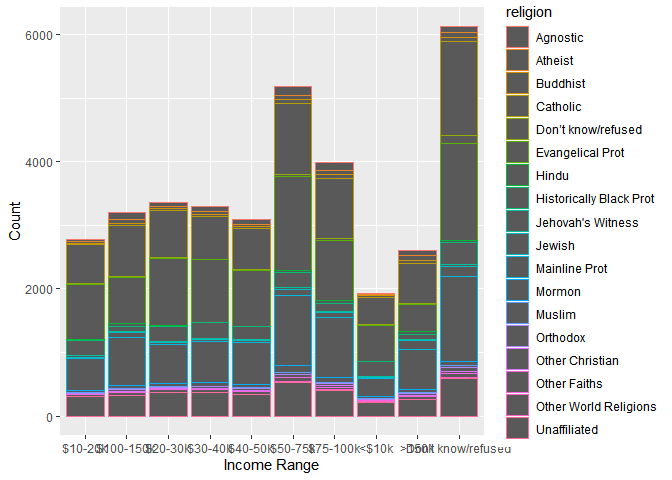
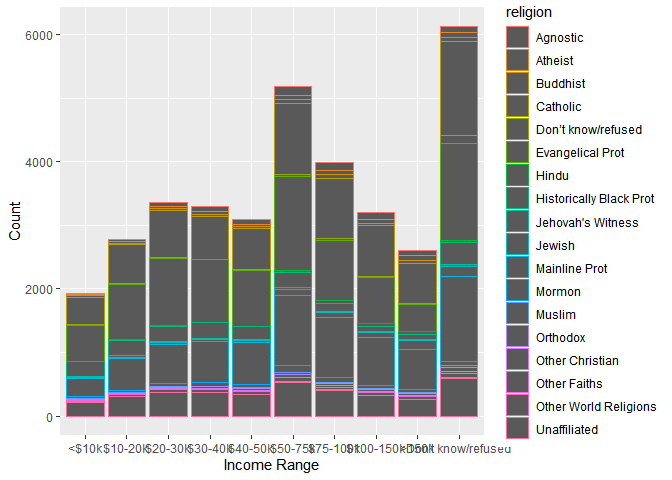
biogeojake - Adjusted order of income figure

diff --git a/hmk/hmk_08/hmk_08.md b/hmk/hmk_08/hmk_08.md
@@ -85,7 +85,9 @@ d3 <- relig_income %>%
   pivot_longer(!religion, names_to = "income", values_to = "count") %>%
   group_by(religion)
 
-ggplot(d3, aes(x = factor(income), y = count, color = religion)) +
+d3$income <- factor(d3$income, levels = c("<$10k", "$10-20k", "$20-30k", "$30-40k", "$40-50k", "$50-75k", "$75-100k", "$100-150k", ">150k", "Don't know/refused"))
+
+ggplot(d3, aes(x = income, y = count, color = religion)) +
   geom_col() +
   labs(x = "Income Range", y = "Count")
 ```
